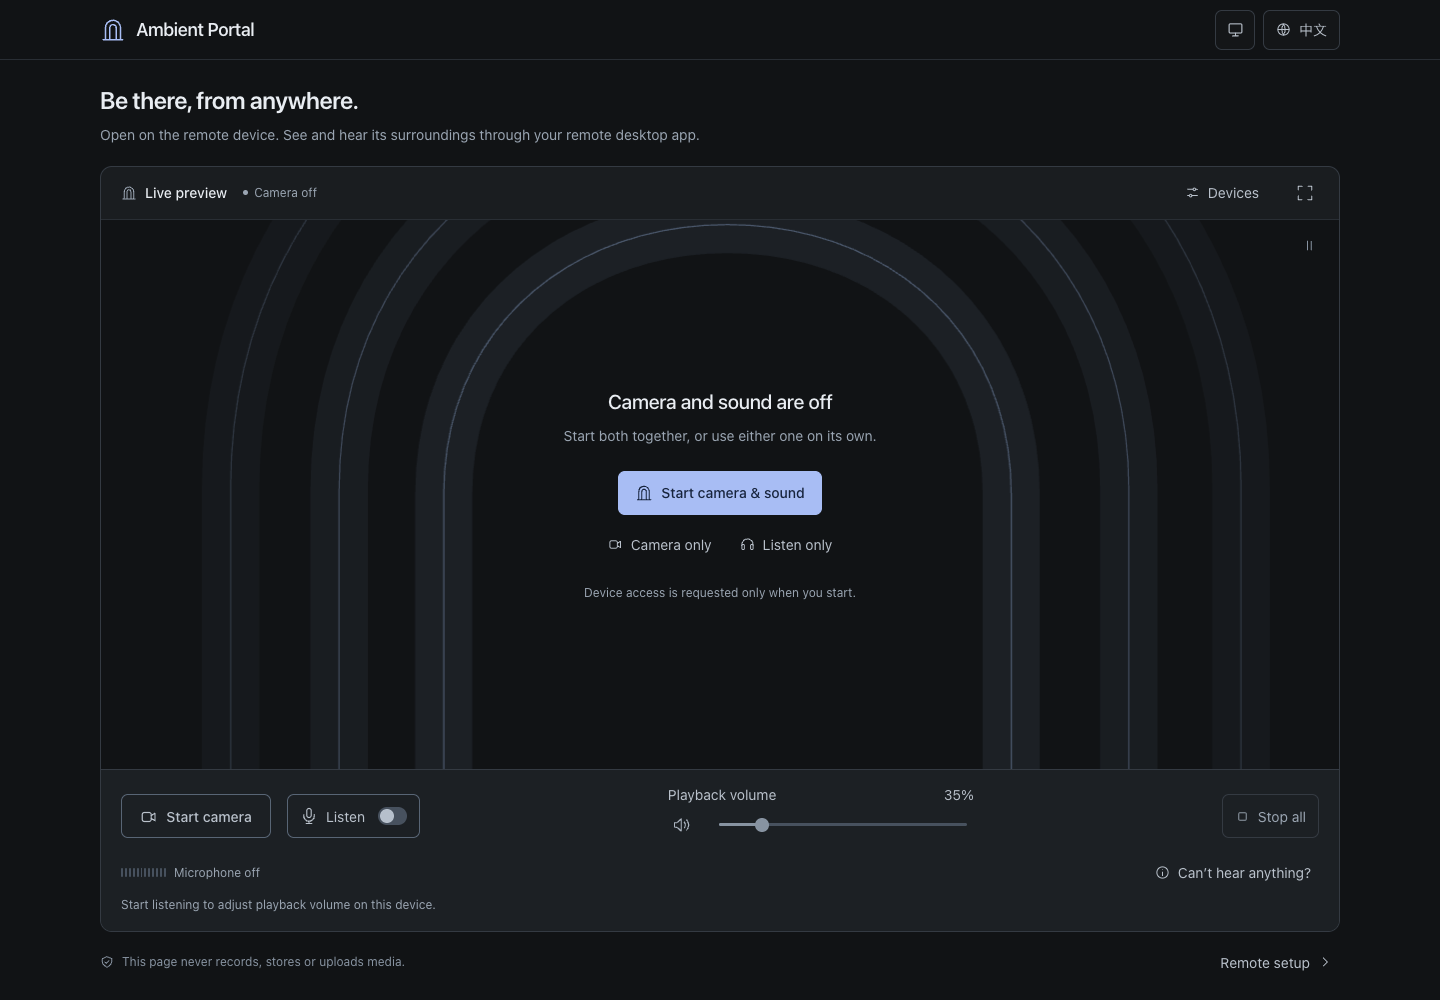
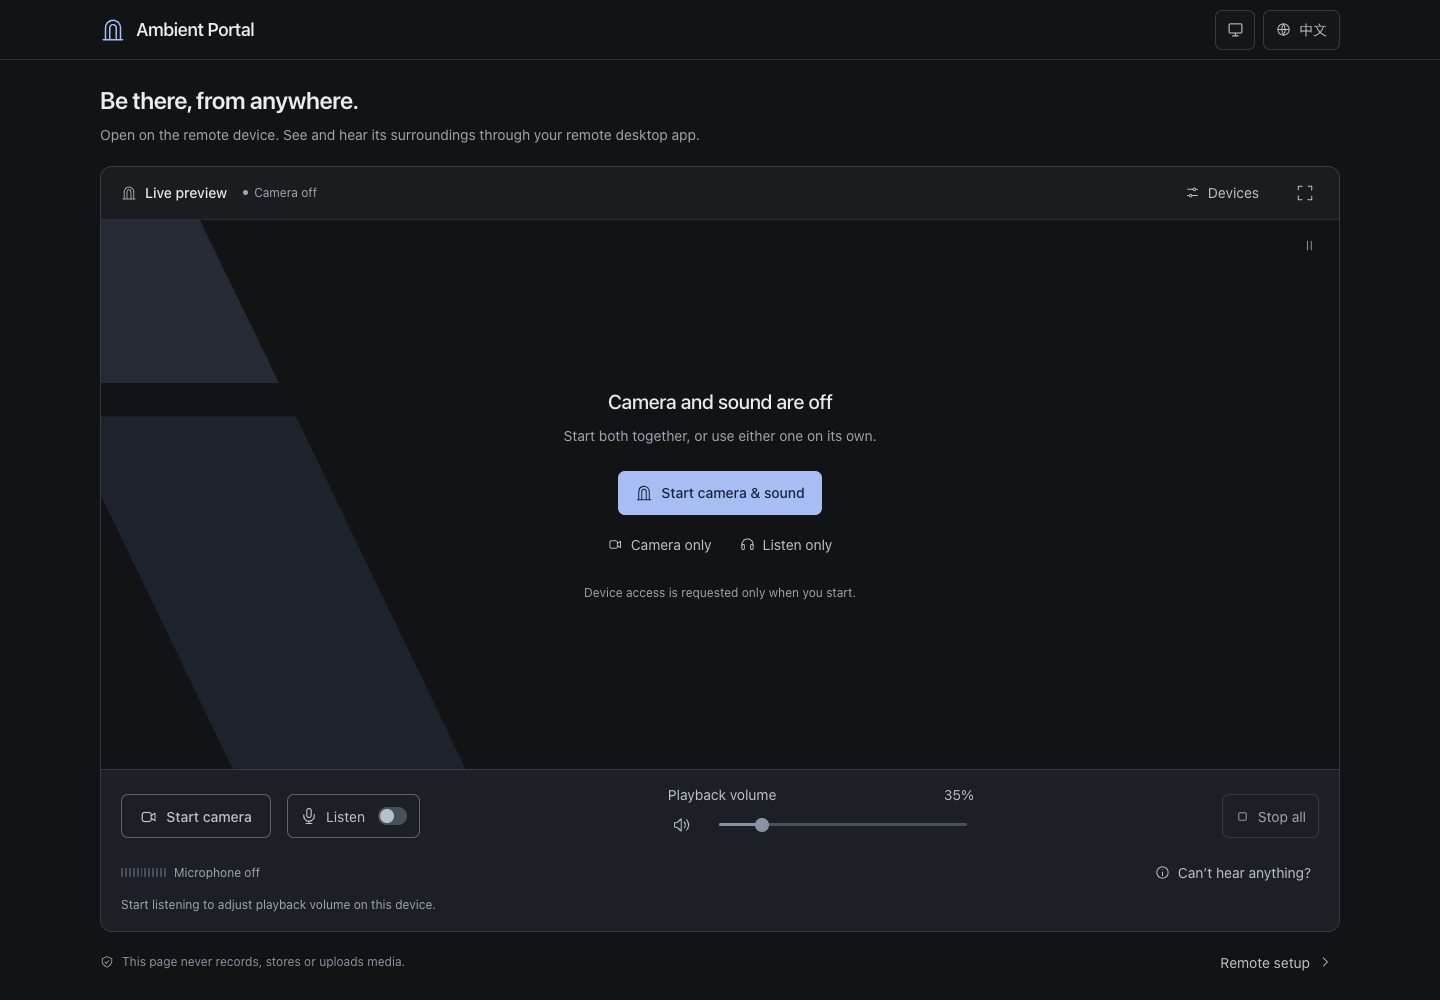
Replace idle arches with gently drifting window light

Changed region(s): [[0.0625, 0.217, 0.1875, 0.403]]

diff --git a/src/style.css b/src/style.css
@@ -6,7 +6,8 @@
   --page-bg: #111315;
   --panel-bg: #1a1d20;
   --stage-bg: #111315;
-  --standby-line: #8ca5ce;
+  --standby-pane: #242b34;
+  --standby-pane-soft: #1c232b;
   --control-bg: #1c2024;
   --dialog-bg: #23272c;
   --field-bg: #1b1f23;
@@ -47,7 +48,8 @@
   --page-bg: #f5f6f7;
   --panel-bg: #ffffff;
   --stage-bg: #f9fafb;
-  --standby-line: #6b86ae;
+  --standby-pane: #e3e8ef;
+  --standby-pane-soft: #edf0f4;
   --control-bg: #f0f2f4;
   --dialog-bg: #ffffff;
   --field-bg: #f9fafb;
@@ -143,25 +145,22 @@ h1 { font-size: 24px; font-weight: 600; letter-spacing: -.5px; line-height: 1.4;
 .stage { position: relative; flex: 1 0 auto; min-height: 300px; background: var(--stage-bg); overflow: hidden; display: grid; place-items: center; }
 .stage video { width: 100%; height: 100%; position: absolute; inset: 0; object-fit: contain; background: var(--video-bg); opacity: 0; transition: opacity .25s ease; }
 .stage[data-state='active'] video { opacity: 1; }
-.standby-art { position: absolute; inset: 0; overflow: hidden; pointer-events: none; }
-.standby-window { position: absolute; inset: -24px; width: calc(100% + 48px); height: calc(100% + 48px); stroke: var(--standby-line); opacity: var(--window-opacity); }
-.standby-window path { vector-effect: non-scaling-stroke; }
-.window-band { stroke-width: 56px; opacity: .18; }
-.window-edge { stroke-width: 1.2px; }
-.standby-window-far { --window-opacity: .24; }
-.standby-window-middle { --window-opacity: .38; }
-.standby-window-near { --window-opacity: .52; }
+.standby-art { position: absolute; inset: 0; overflow: hidden; pointer-events: none; opacity: 1; transition: opacity .2s ease, display .2s allow-discrete; }
+.standby-art[hidden] { opacity: 0; }
+.window-shadow { --shadow-x: 12px; --shadow-y: 8px; position: absolute; left: -64px; top: -50px; width: calc(clamp(160px, 50% - 236px, 440px) + 64px); height: calc(100% + 100px); overflow: visible; }
+.window-pane { fill: var(--standby-pane); }
+.window-pane-soft { fill: var(--standby-pane-soft); }
+.window-panes-mobile { display: none; }
 .background-motion { position: absolute; right: 8px; top: 4px; color: var(--subtle); }
 .background-motion .icon { width: 15px; height: 15px; }
 @media (prefers-reduced-motion: no-preference) {
-  .standby-window { animation: window-drift 14s ease-in-out infinite alternate; }
-  .standby-window-far { animation-duration: 20s; animation-delay: -10s; }
-  .standby-window-middle { animation-duration: 17s; animation-delay: -5s; }
-  .standby-art[data-paused='true'] .standby-window, :root:has(dialog[open]) .standby-window { animation-play-state: paused; }
+  .window-shadow { animation: window-shift 20s ease-in-out infinite; }
+  .standby-art[data-paused='true'] .window-shadow, :root:has(dialog[open]) .window-shadow { animation-play-state: paused; }
+  .standby-art[hidden] .window-shadow { animation: none; }
 }
-@keyframes window-drift {
-  from { transform: translate3d(-16px, 12px, 0) scale(1); opacity: calc(var(--window-opacity) * .72); }
-  to { transform: translate3d(16px, -12px, 0) scale(1.025); opacity: var(--window-opacity); }
+@keyframes window-shift {
+  0%, 100% { transform: translate3d(calc(-1 * var(--shadow-x)), calc(-1 * var(--shadow-y)), 0); }
+  50% { transform: translate3d(var(--shadow-x), var(--shadow-y), 0); }
 }
 .empty-state { position: relative; text-align: center; width: min(520px, calc(100% - 40px)); padding: 32px 0; }
 .preview-placeholder { margin: 0 auto 20px; color: var(--subtle); }
@@ -327,8 +326,9 @@ html[lang='zh-CN'] h1, html[lang='zh-CN'] .empty-state h3 { letter-spacing: .4px
   .panel-toolbar .status-badge { gap: 5px; }
   #settings-open { gap: 6px; padding: 0 6px; white-space: nowrap; }
   .stage { min-height: 300px; }
-  .standby-window-near { display: none; }
-  .window-band { stroke-width: 28px; }
+  .window-shadow { --shadow-x: 8px; --shadow-y: 4px; inset: 0; width: 100%; height: 100%; }
+  .window-panes-desktop { display: none; }
+  .window-panes-mobile { display: initial; }
   .empty-state { width: calc(100% - 32px); padding: 28px 0; }
   .preview-placeholder { margin-bottom: 16px; }
   .empty-state h3 { font-size: 18px; }
@@ -365,7 +365,6 @@ html[lang='zh-CN'] h1, html[lang='zh-CN'] .empty-state h3 { letter-spacing: .4px
   .language-button { padding: 0 10px; }
 }
 @media (max-width: 360px) {
-  .standby-window-middle { display: none; }
   .empty-actions button { padding: 0 8px; }
   .empty-actions .icon, .camera-button .icon { display: none; }
 }

diff --git a/src/main.js b/src/main.js
@@ -52,11 +52,16 @@ document.querySelector('#app').innerHTML = `
       <div class="stage" id="stage" data-state="idle">
         <video id="preview-video" autoplay playsinline muted></video>
         <div class="standby-art" id="standby-art" aria-hidden="true">
-          ${[
-            ['far', 'M140 780V355C140 86 346-88 600-88s460 174 460 443v425'],
-            ['middle', 'M240 780V355C240 142 401 10 600 10s360 132 360 345v425'],
-            ['near', 'M340 780V355C340 203 456 108 600 108s260 95 260 247v425'],
-          ].map(([depth, path]) => `<svg class="standby-window standby-window-${depth}" viewBox="0 0 1200 700" fill="none" preserveAspectRatio="xMidYMid slice"><path class="window-band" d="${path}" /><path class="window-edge" d="${path}" /></svg>`).join('')}
+          <svg class="window-shadow" viewBox="0 0 480 700" preserveAspectRatio="none">
+            <g class="window-panes-desktop">
+              <path class="window-pane" d="M-140-80H110L260 230H10Z" />
+              <path class="window-pane window-pane-soft" d="M28 266H278L462 650H212Z" />
+            </g>
+            <g class="window-panes-mobile">
+              <path class="window-pane" d="M-80-60H112L184 34H-8Z" />
+              <path class="window-pane window-pane-soft" d="M-260 550H-150L180 800H20Z" />
+            </g>
+          </svg>
         </div>
         <div class="empty-state" id="empty-state">
           <div class="preview-placeholder" id="preview-placeholder" aria-hidden="true">${icon('camera')}</div>

diff --git a/README.en.md b/README.en.md
@@ -72,7 +72,7 @@ Use the appearance icon at the top right to choose **System, Light, or Dark**. T
 
 Changing appearance keeps camera and microphone capture running, preserves capture quality and playback volume, and leaves the live picture free of color filters. On reload, the preference is applied before the app loads to avoid briefly showing the other palette.
 
-The idle preview echoes the logo with mist blue window bands and outlines drifting around a clear central control area. Pause the animation from the preview’s top-right corner; your choice is remembered. Reduced motion uses a still illustration. The background disappears when capture starts and pauses when the page is hidden, the preview is off screen, or a dialog is open.
+The idle preview shows two angled panes of window light moving gently from the left, completing a round trip in about 20 seconds without changing shape or brightness. Dark mode pairs graphite with mist blue gray; light mode uses cool gray on a pale background. Narrow screens crop the panes into the upper-left and lower-left corners, keeping the central text and controls clear. Pause the animation from the preview’s top-right corner; your choice is remembered. Reduced motion uses a still illustration. The panes fade out when capture starts and pause when the page is hidden, the preview is off screen, or a dialog is open.
 
 ### Capture quality and volume
 

diff --git a/README.md b/README.md
@@ -72,7 +72,7 @@ npm run preview   # 在本机预览生产构建
 
 切换主题不会重新启动摄像头或麦克风，不会改变采集质量和回放音量，也不会给实时画面添加滤镜。刷新时会在应用加载前应用偏好，避免短暂闪现另一套配色。
 
-待机预览以 Logo 的拱形窗为背景，雾蓝窗带与轮廓在四周缓慢漂移，中央保留清晰的操作区。点击预览区右上角的暂停按钮可停止动效，并记住选择；系统启用「减少动态效果」时显示静态窗影。开始采集后背景收起；页面隐藏、预览移出视口或弹窗打开时自动暂停。
+待机背景采用「窗影缓移」：两块斜向窗影从左侧进入，约 20 秒缓慢往返一次，形状和明暗保持稳定。暗色主题使用石墨底上的雾蓝灰，亮色主题使用浅底上的冷灰；窄屏将窗影裁切到左上和左下，中央文案与按钮保持清晰。点击预览区右上角的暂停按钮可停止动效，并记住选择；系统启用「减少动态效果」时显示静态窗影。开始采集后窗影淡出；页面隐藏、预览移出视口或弹窗打开时自动暂停。
 
 ### 采集质量与音量
 
